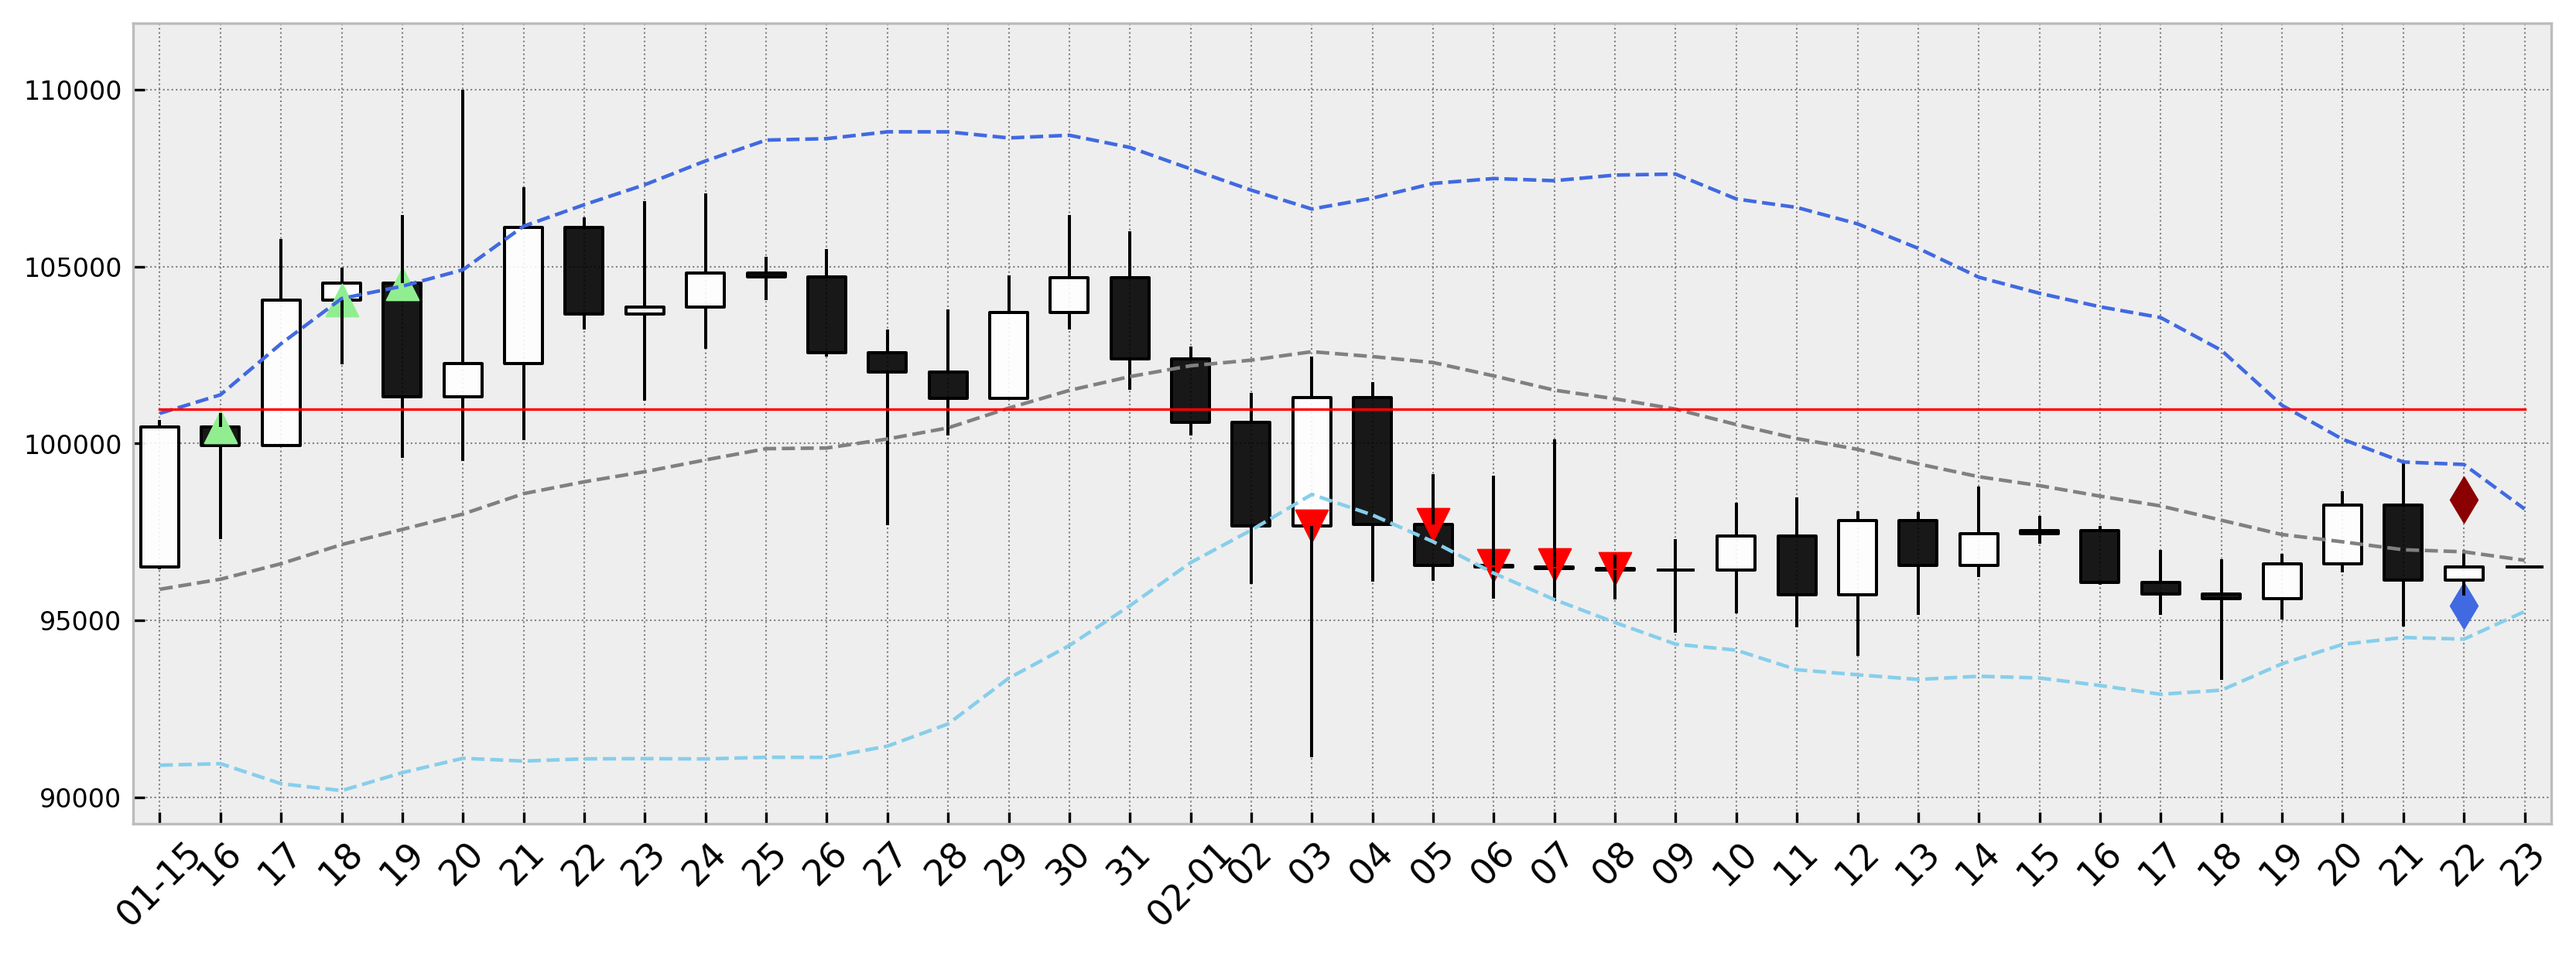
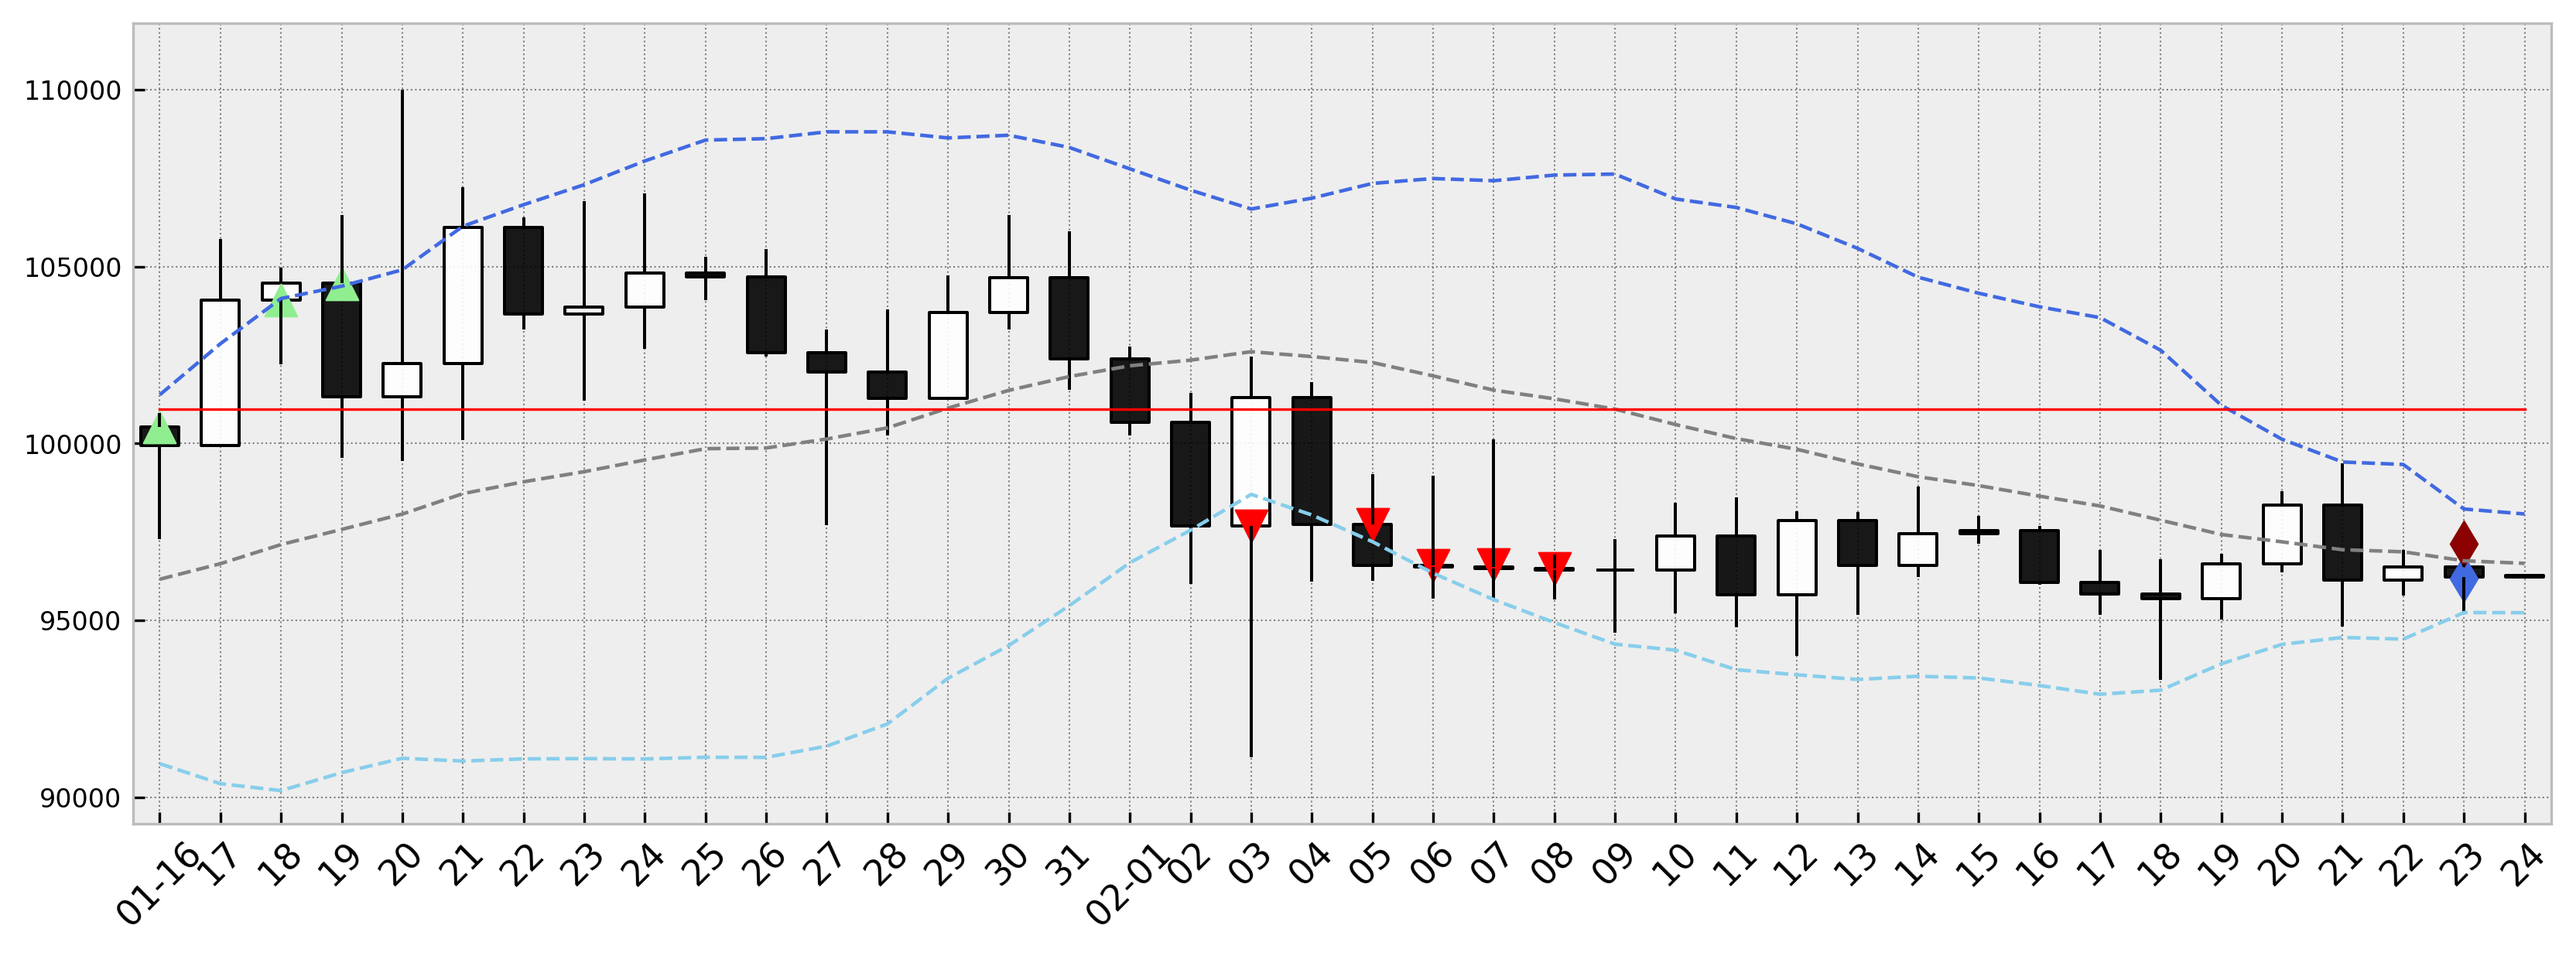
Update web contents - 2025-02-24 09:00:25

diff --git a/index.html b/index.html
@@ -9,16 +9,16 @@
 <body>
     <div class="container">
         <div class="header">
-            <div class="date"><span class="title-text">Binance</span>  2025-02-23 09:00:07</div>
+            <div class="date"><span class="title-text">Binance</span>  2025-02-24 09:00:07</div>
             <div class="info">
                 <div class="info-item">
                     <span class="label">Total Value: </span>
-                    <span class="value">$ 260.6454</span>
+                    <span class="value">$ 258.4736</span>
                 </div>
                 <div class="info-group">
                     <div class="info-item">
                         <span class="label">Capital: </span>
-                        <span class="value">$ 86.9384</span>
+                        <span class="value">$ 85.1893</span>
                     </div>
                     <div class="info-item">
                         <span class="label">Position (BTC): </span>
@@ -36,27 +36,27 @@
             <div class="info-group">
                 <div class="info-item">
                     <span class="label">Close(-1D): </span>
-                    <span class="value">$ 96,503.3</span>
+                    <span class="value">$ 96,218.4</span>
                 </div>
                 <div class="info-item">
                     <span class="label">Threshold_Low: </span>
-                    <span class="value">$ 95,413.9</span>
+                    <span class="value">$ 96,172.2</span>
                 </div>
             </div>
             <div class="info-group">
                 <div class="info-item">
                     <span class="label">Threshold_High: </span>
-                    <span class="value">$ 98,411.5</span>
+                    <span class="value">$ 97,165.7</span>
                 </div>
                 <div class="info-item">
                     <span class="label">ADX: </span>
-                    <span class="value">32.2</span>
+                    <span class="value">32.0</span>
                 </div>
             </div>
             <div class="info-group">
                 <div class="info-item">
                     <span class="label">BRK cnt: </span>
-                    <span class="value">67</span>
+                    <span class="value">68</span>
                 </div>
                 <div class="info-item">
                     <span class="alert-label">Signal: </span>
@@ -70,35 +70,35 @@
         
         <div class="header">
             <div class="info">
-                <div class="date"><span class="title-text">TIGER Nasdaq100</span>  2025-02-23 09:00:12</div>
+                <div class="date"><span class="title-text">TIGER Nasdaq100</span>  2025-02-24 09:00:12</div>
                 <div class="info-group">
                     <div class="info-item">
                         <span class="label">Open(Today): </span>
-                        <span class="value">140,845</span>
+                        <span class="value">138,765</span>
                     </div>
                     <div class="info-item">
                         <span class="label">Close(-1D): </span>
-                        <span class="value">141,255</span>
+                        <span class="value">140,785</span>
                     </div>
                 </div>
                 <div class="info-group">
                     <div class="info-item">
                         <span class="label">Close(-1D) * 1.1: </span>
-                        <span class="value">142,667.5</span>
+                        <span class="value">142,192.9</span>
                     </div>
                     <div class="info-item">
                         <span class="label">20MA: </span>
-                        <span class="value">139,787.8</span>
+                        <span class="value">139,903.5</span>
                     </div>
                 </div>
                 <div class="info-group">
                     <div class="info-item">
                         <span class="label">Deviation: </span>
-                        <span class="value">101.0</span>
+                        <span class="value">100.6</span>
                     </div>
                     <div class="info-item">
                         <span class="alert-label">Alert: </span>
-                        <span class="value">-</span>
+                        <span class="value">buy</span>
                     </div>
                 </div>
             </div>
@@ -112,7 +112,7 @@
 
         <div class="header">
             <div class="info">
-                <div class="date"><span class="title-text">Index</span>  2025-02-23 09:00:15</div>
+                <div class="date"><span class="title-text">Index</span>  2025-02-24 09:00:15</div>
             </div>
         </div>
 

diff --git a/fam_index.html b/fam_index.html
@@ -13,35 +13,35 @@
         
         <div class="header">
             <div class="info">
-                <div class="date"><span class="title-text">TIGER 미국나스닥100(133690)</span>  2025-02-23 09:00:12</div>
+                <div class="date"><span class="title-text">TIGER 미국나스닥100(133690)</span>  2025-02-24 09:00:12</div>
                 <div class="info-group">
                     <div class="info-item">
                         <span class="label">시작가(금일): </span>
-                        <span class="value">140,845</span>
+                        <span class="value">138,765</span>
                     </div>
                     <div class="info-item">
                         <span class="label">종가(어제): </span>
-                        <span class="value">141,255</span>
+                        <span class="value">140,785</span>
                     </div>
                 </div>
                 <div class="info-group">
                     <div class="info-item">
                         <span class="label">종가(어제) * 1.1: </span>
-                        <span class="value">142,667.5</span>
+                        <span class="value">142,192.9</span>
                     </div>
                     <div class="info-item">
                         <span class="label">20일 이동평균: </span>
-                        <span class="value">139,787.8</span>
+                        <span class="value">139,903.5</span>
                     </div>
                 </div>
                 <div class="info-group">
                     <div class="info-item">
                         <span class="label">이격도: </span>
-                        <span class="value">101.0</span>
+                        <span class="value">100.6</span>
                     </div>
                     <div class="info-item">
                         <span class="alert-label">신호: </span>
-                        <span class="value"><span class="value">거래 불가</span></span>
+                        <span class="value"><span class="value">안샀으면 매수(샀으면 유지)</span></span>
                     </div>
                 </div>
             </div>
